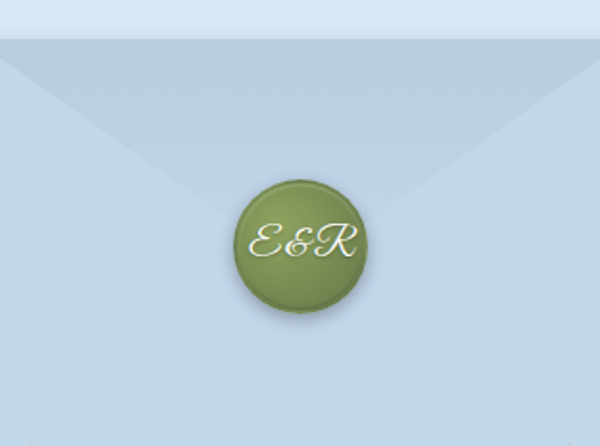
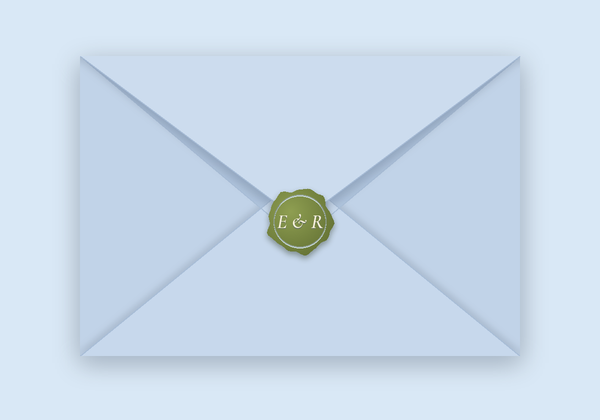
Replace with final GIF (1.16MB, plays once, 15s hold), restore tap hint, update email

diff --git a/email/save-the-date.html b/email/save-the-date.html
@@ -13,8 +13,11 @@
           <img src="https://thebuskers2027.com/save-the-date/save-the-date.gif" 
                alt="Save the Date — Eleanor & Ryan, March 6, 2027" 
                width="600" 
-               style="max-width: 100%; height: auto; display: block; border: 0;" />
+               style="max-width: 100%; height: auto; display: block; border: 0; margin: 0 auto;" />
         </a>
+        <p style="margin: 16px 0 10px; font-size: 15px; color: #8FA45F; line-height: 1.4; font-style: italic;">
+          Tap to open your save the date
+        </p>
       </td>
     </tr>
   </table>

diff --git a/app/globals.css b/app/globals.css
@@ -1084,6 +1084,19 @@ a:hover {
   z-index: 1;
 }
 
+.tap-hint {
+  margin-top: 16px;
+  font-family: 'Inter', sans-serif;
+  font-size: 14px;
+  color: var(--sage-green);
+  opacity: 0.7;
+  transition: opacity 0.3s ease;
+}
+
+.envelope-wrapper.opened + .tap-hint {
+  opacity: 0;
+}
+
 .card-container {
   position: relative;
   width: 90vw;

diff --git a/app/save-the-date/page.tsx b/app/save-the-date/page.tsx
@@ -29,6 +29,8 @@ export default function SaveTheDatePage() {
         </button>
       </div>
       
+      {!isOpen && <div className="tap-hint">Tap to open</div>}
+      
       <div className="card-container">
         <Image
           src="/save-the-date/card-1200.webp"
